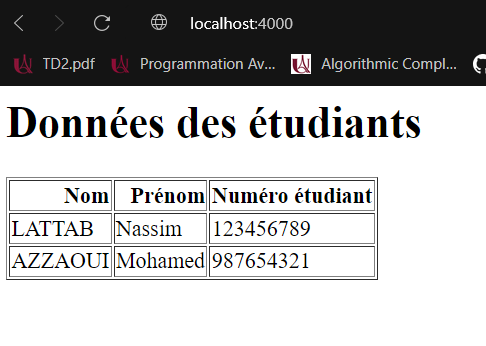
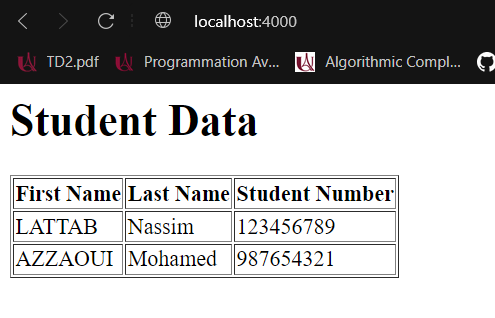
update screen

diff --git a/src/main.py b/src/main.py
@@ -4,16 +4,16 @@ import pandas as pd
 app = Flask(__name__)
 
 def generate_html_from_dataframe(df):
-    html = "<h1>Données des étudiants</h1>"
+    html = "<h1>Student Data</h1>"
     html += df.to_html(index=False)
     return html
 
 @app.route('/')
 def index():
     data = {
-        'Nom': ['LATTAB', 'AZZAOUI'],
-        'Prénom': ['Nassim', 'Mohamed'],
-        'Numéro étudiant': ['123456789', '987654321']
+        'First Name': ['LATTAB', 'AZZAOUI'],
+        'Last Name': ['Nassim', 'Mohamed'],
+        'Student Number': ['123456789', '987654321']
     }
     df = pd.DataFrame(data)
     return generate_html_from_dataframe(df)
